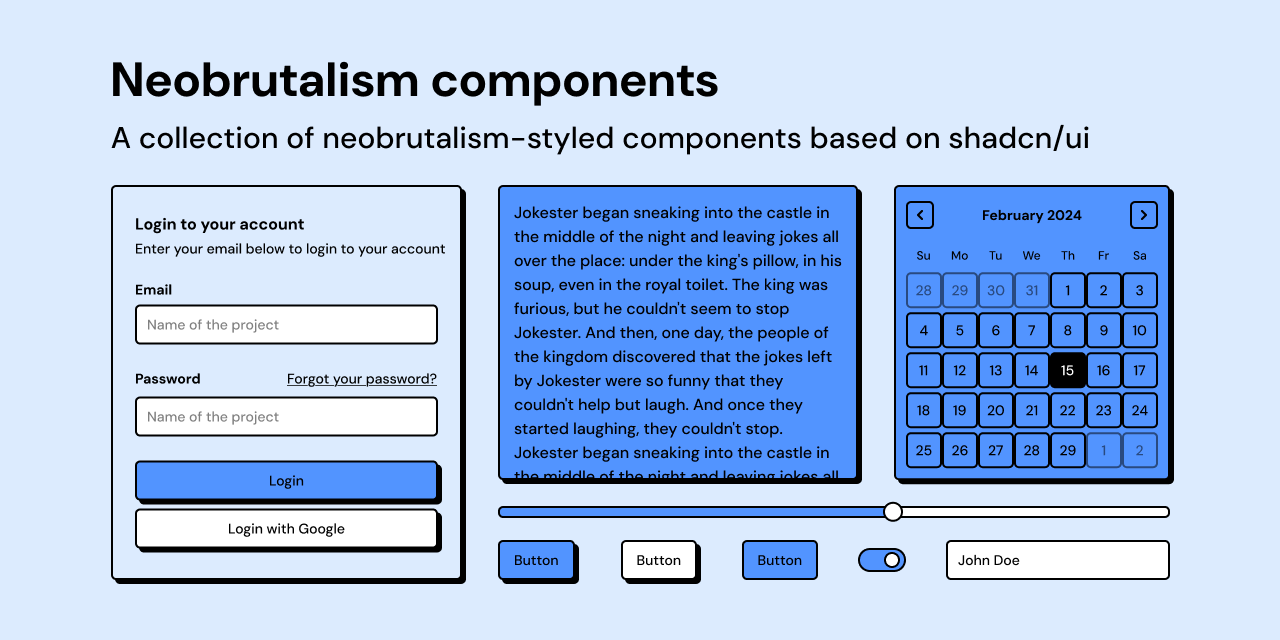
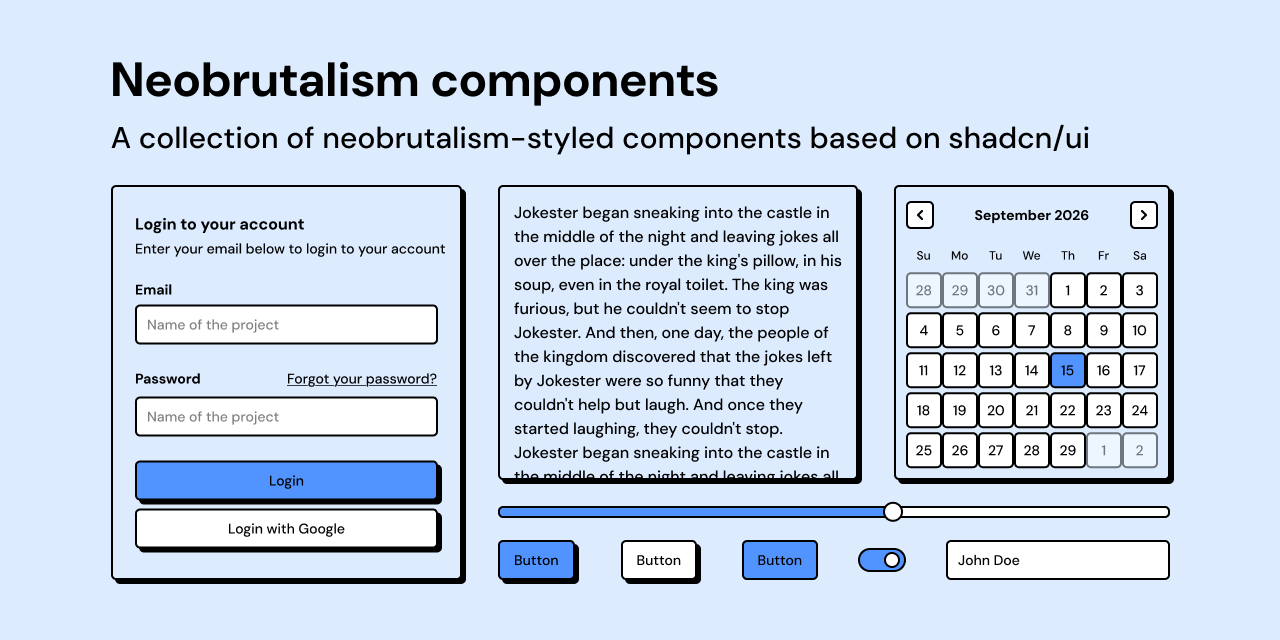
Add a docs footer, drop the unmaintained notice from the README and refresh the preview image

Changed region(s): [[0.375, 0.2812, 0.9375, 0.75]]

diff --git a/src/app/docs/layout.tsx b/src/app/docs/layout.tsx
@@ -9,6 +9,19 @@ export default function MainDocsLayout({
     <>
       <Sidebar />
       {children}
+      <footer className="lg:ml-[250px] border-t-4 border-border bg-secondary-background text-center font-base sm:text-base text-sm text-foreground">
+        <div className="xl:mr-[250px] px-5 py-6">
+          Released under MIT License. Built by{" "}
+          <a
+            href="https://samuelbreznjak.com"
+            target="_blank"
+            rel="noreferrer"
+            className="font-heading underline decoration-2 underline-offset-2"
+          >
+            Samuel
+          </a>
+        </div>
+      </footer>
     </>
   )
 }

diff --git a/README.md b/README.md
@@ -1,6 +1,3 @@
-# no longer maintained
-read [this](https://github.com/ekmas/neobrutalism-components/discussions/100) for more info
-
 # Neobrutalism components
 
 <img src="public/preview.png" alt="preview">
